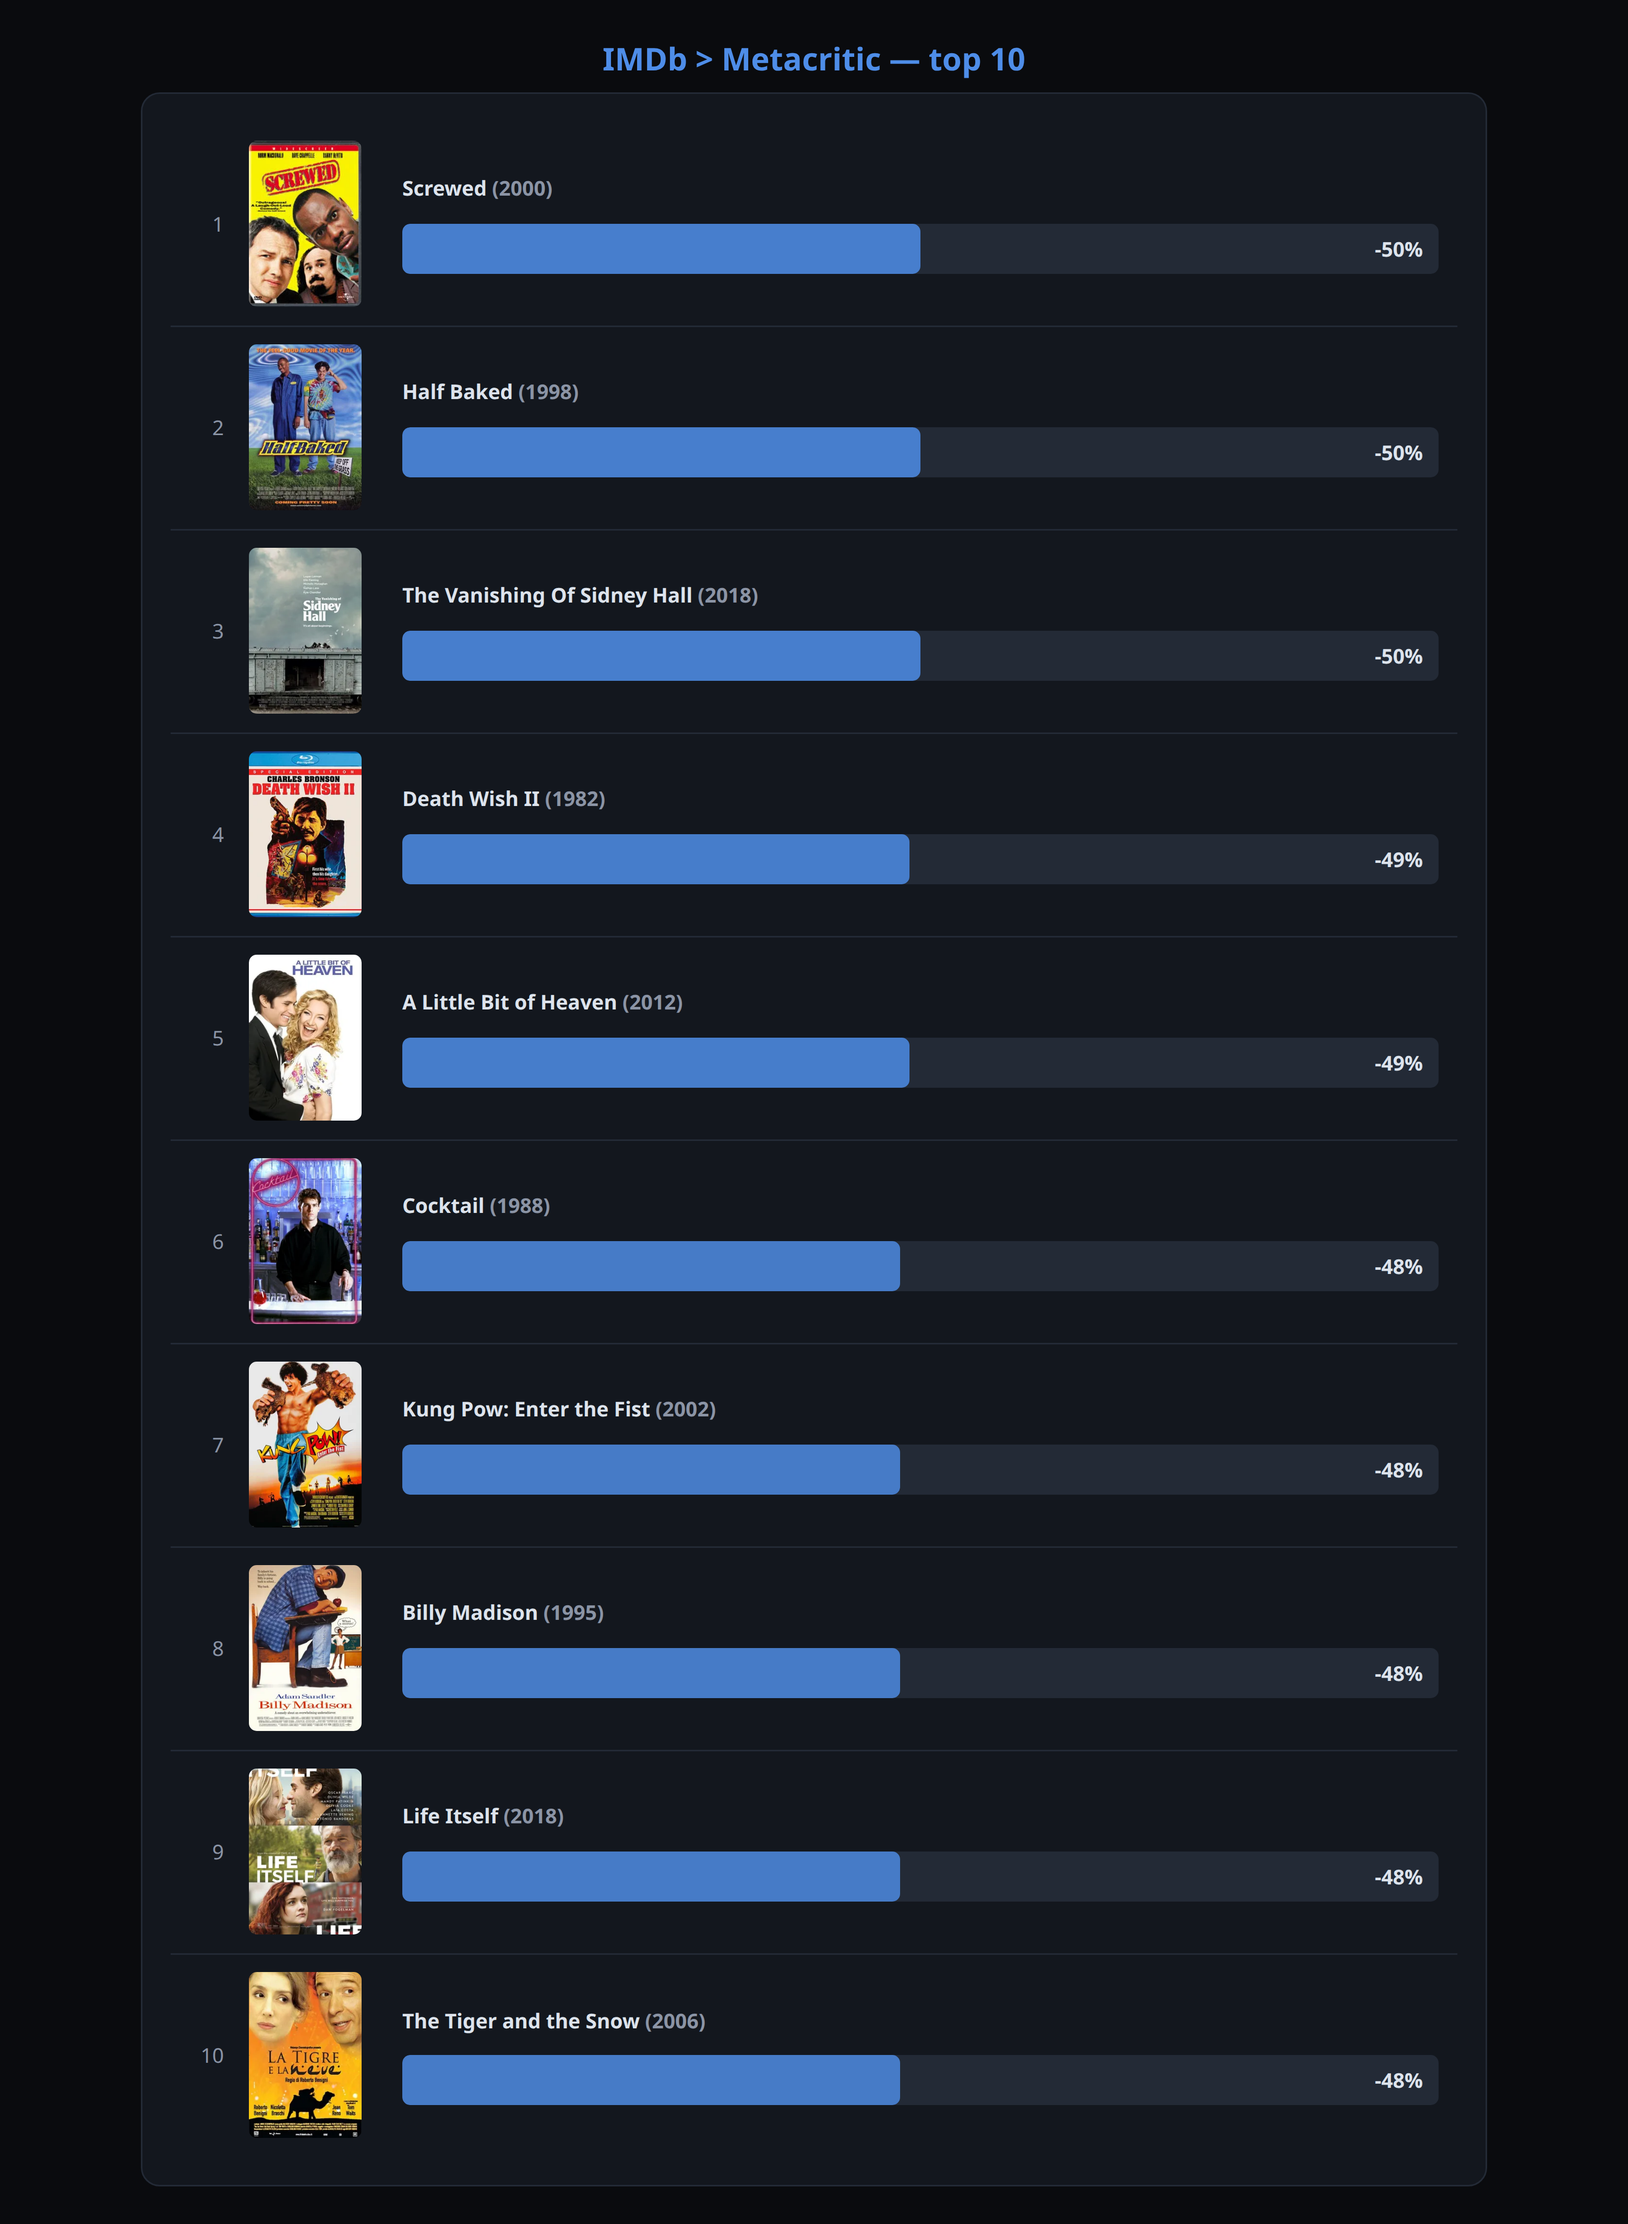
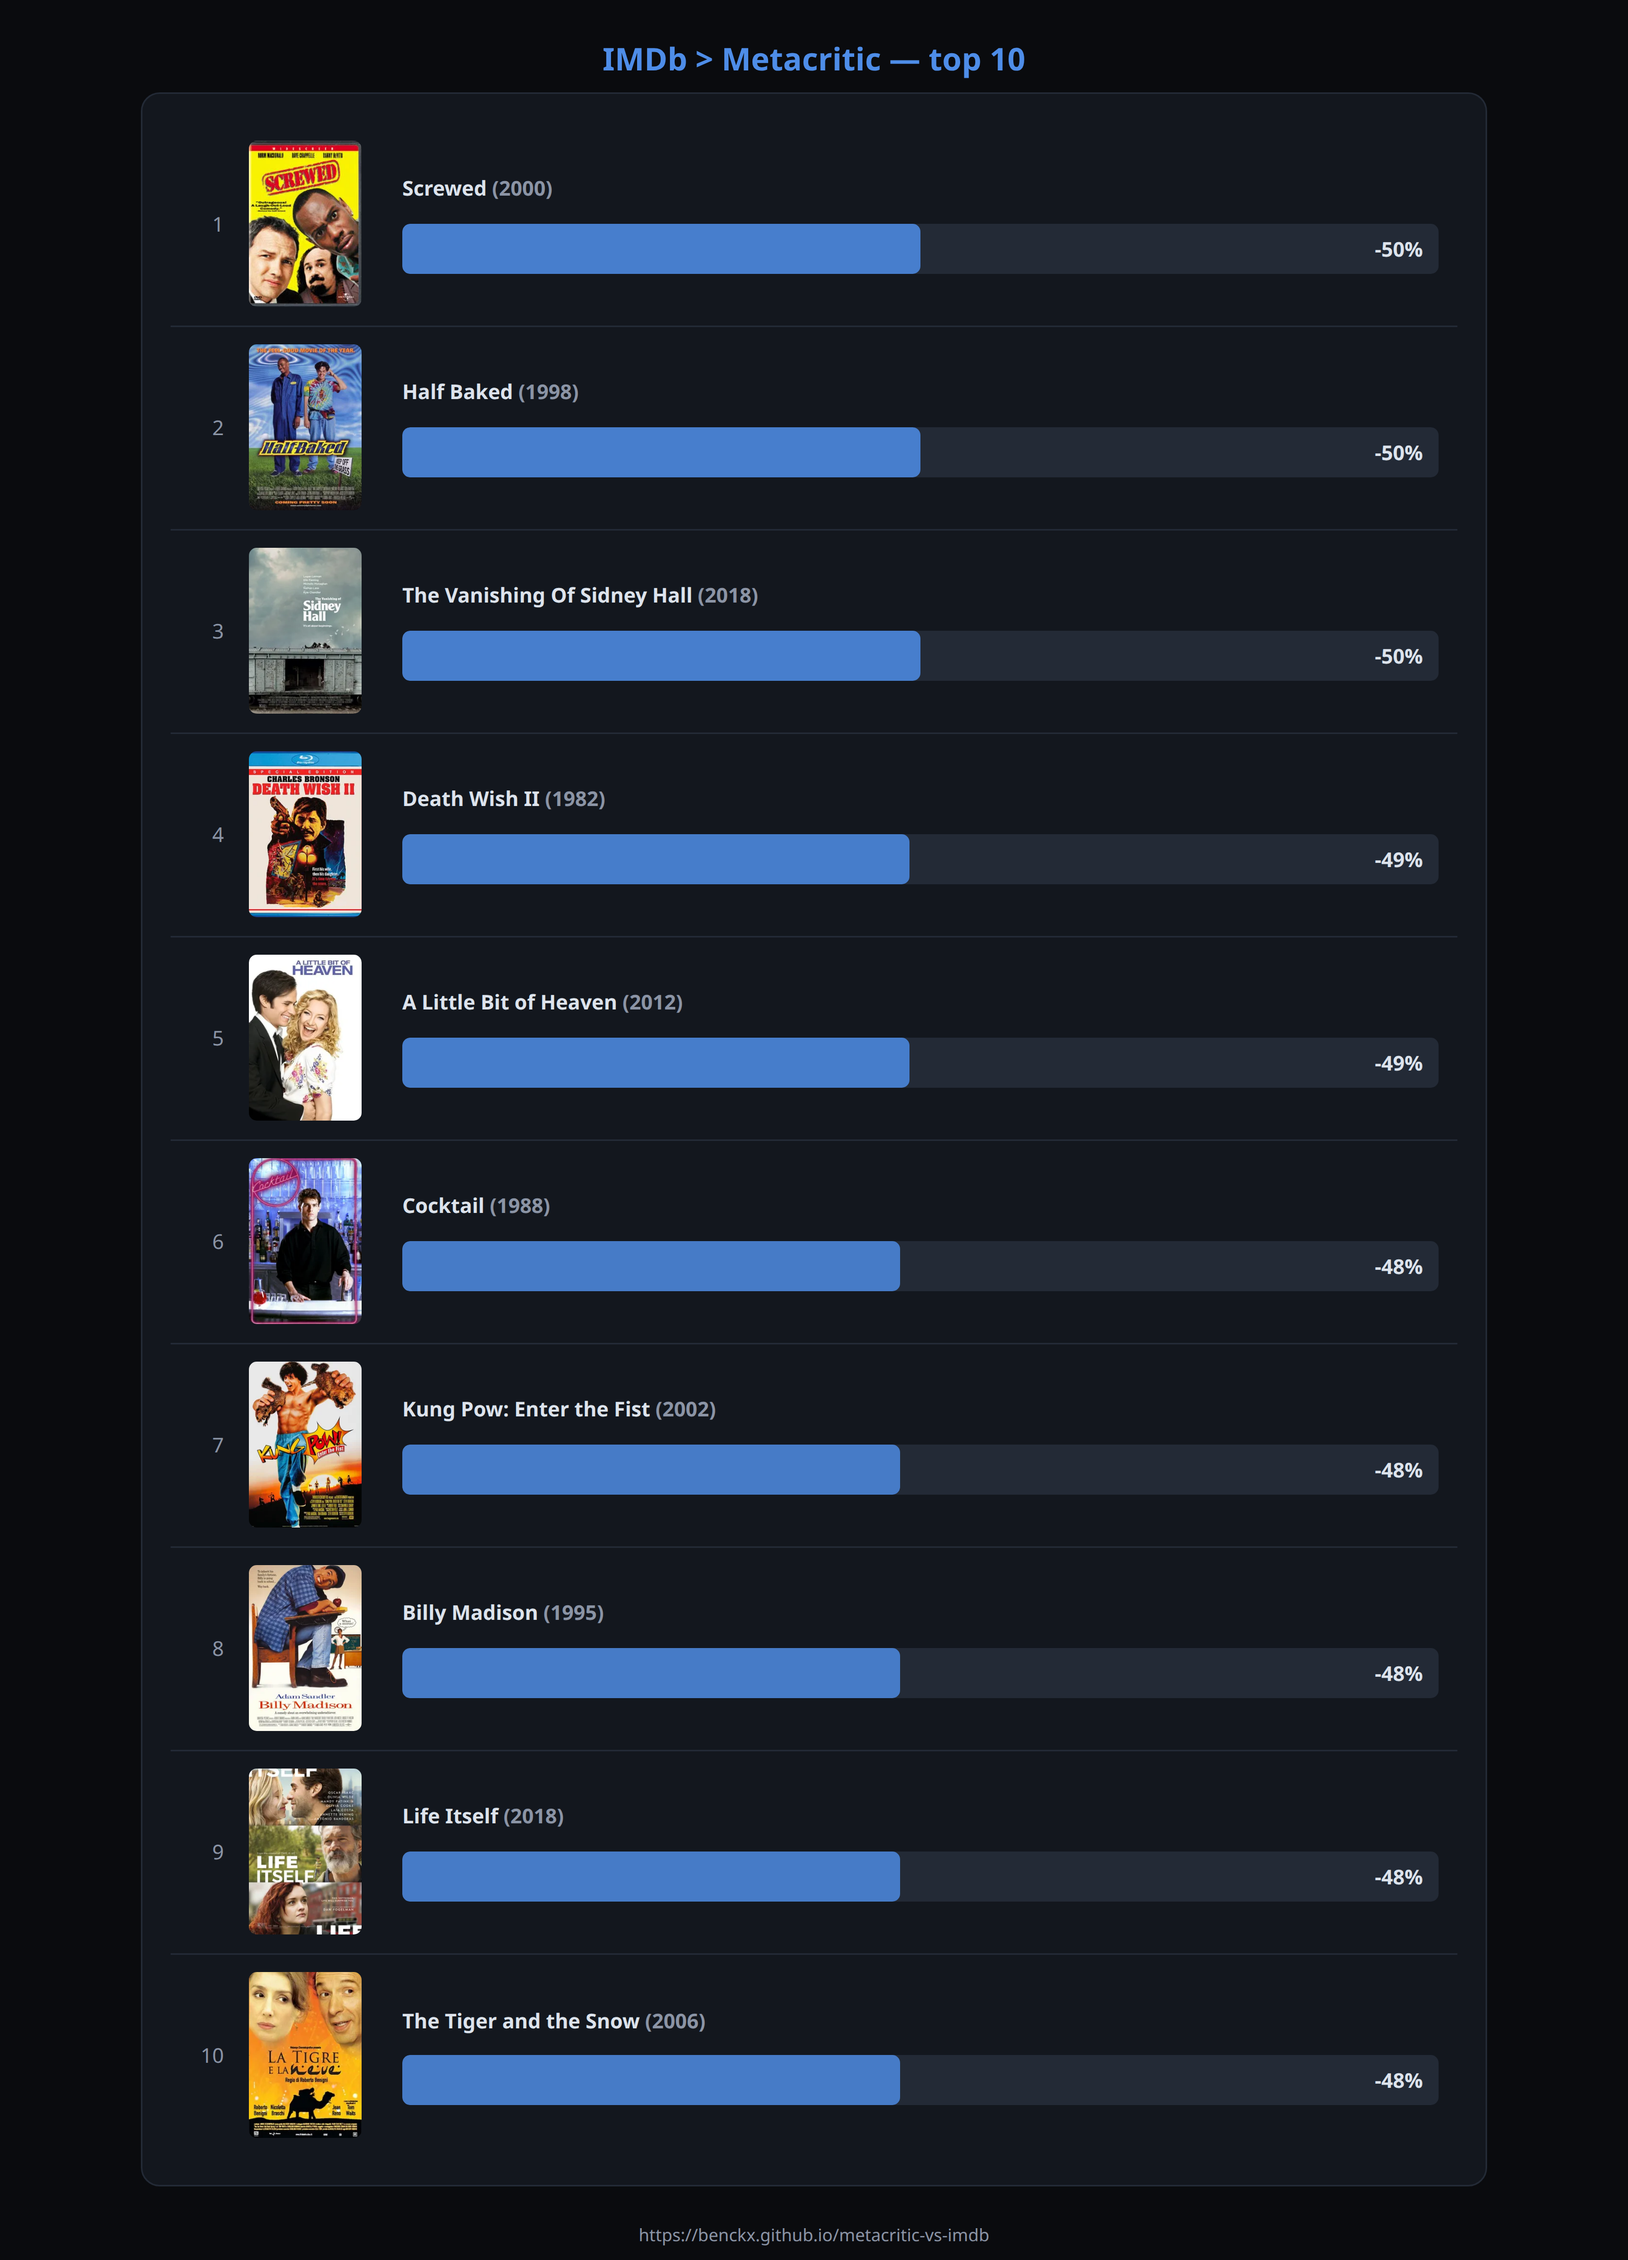
add url below the images

diff --git a/export_visualizations.py b/export_visualizations.py
@@ -24,11 +24,12 @@ def export_visualizations(output):
             page.add_style_tag(content="""
                 [data-export] {
                     background: var(--bg);
-                    padding: 24px;
+                    padding: 24px 24px 8px;
                     margin: 0 auto;
                 }
                 [data-export] h2 { margin-top: 0; }
                 [data-export] .card { margin-bottom: 0; }
+                [data-export] .export-url { margin: 24px 0 0; font-size: 11px; }
                 .view-more { display: none; }
             """)
             sections = page.locator("[data-export]")
@@ -62,6 +63,10 @@ def export_visualizations(output):
                             parseFloat(getComputedStyle(element).paddingRight);
                         element.style.maxWidth = `${card.offsetWidth + padding}px`;
                     }
+                    const url = document.createElement("p");
+                    url.className = "sub export-url";
+                    url.textContent = "https://benckx.github.io/metacritic-vs-imdb";
+                    element.appendChild(url);
                     await document.fonts.ready;
                     await Promise.all([...element.querySelectorAll("img")].map(image => {
                         image.loading = "eager";

diff --git a/README.md b/README.md
@@ -13,12 +13,10 @@ explores movies where Metacritic critics and IMDb users disagree.
 - **Metacritic**: critic scores fetched from the site's
   backend API into `metacritic.jsonl`.
 
-Movies are joined on the IMDb id embedded in Metacritic image paths, with an
-unambiguous title + year fallback. When no eligible exact-year match exists,
-an unambiguous eligible match one year earlier or later may be used. The later
-year is displayed when sources disagree. Movies with fewer than 10,000 IMDb
-votes or fewer than 7 critic reviews are excluded from the rankings. The
-dashboard also excludes movies released before 1980 and movies without a year.
+Movies are joined on the IMDb id embedded in Metacritic image paths, with an unambiguous title + year fallback. When no
+eligible exact-year match exists, an unambiguous eligible match one year earlier or later may be used. The later year is
+displayed when sources disagree. Movies with fewer than 10,000 IMDb votes or fewer than 7 critic reviews are excluded
+from the rankings. The dashboard also excludes movies released before 1980 and movies without a year.
 
 ## Refreshing the data
 
@@ -66,17 +64,15 @@ The full refresh exports visualizations automatically. To export them separately
 python3 export_visualizations.py
 ```
 
-This writes six PNGs to `exports/`, one per visualization, including its title
-and any description. Images use a 1200-pixel browser viewport and 3x resolution.
-The two rankings include the initial top 10 movies. About and the consensus gallery are not exported.
-Use `--output /path/to/images` to choose another destination. Existing images with
-the same names are overwritten. The script works from any directory and needs
-internet access to load the dashboard's existing ApexCharts CDN dependency.
-Charts, fonts, and poster images finish loading before capture; loading errors
-stop the export. Poster detail remains limited by the cached 236x348 thumbnails.
+This writes six PNGs to `exports/`, one per visualization, including its title, any description, and the dashboard URL.
+Images use a 1200-pixel browser viewport and 3x resolution. The two rankings include the initial top 10 movies. About
+and the consensus gallery are not exported. Use `--output /path/to/images` to choose another destination. Existing
+images with the same names are overwritten. The script works from any directory and needs internet access to load the
+dashboard's existing ApexCharts CDN dependency. Charts, fonts, and poster images finish loading before capture; loading
+errors stop the export. Poster detail remains limited by the cached 236x348 thumbnails.
 
-Exportable sections in `index.html` use `data-export` attributes for stable
-filenames. Chart sections wrap their headings, descriptions, and cards together.
+Exportable sections in `index.html` use `data-export` attributes for stable filenames. Chart sections wrap their
+headings, descriptions, and cards together.
 
 ## Files
 
